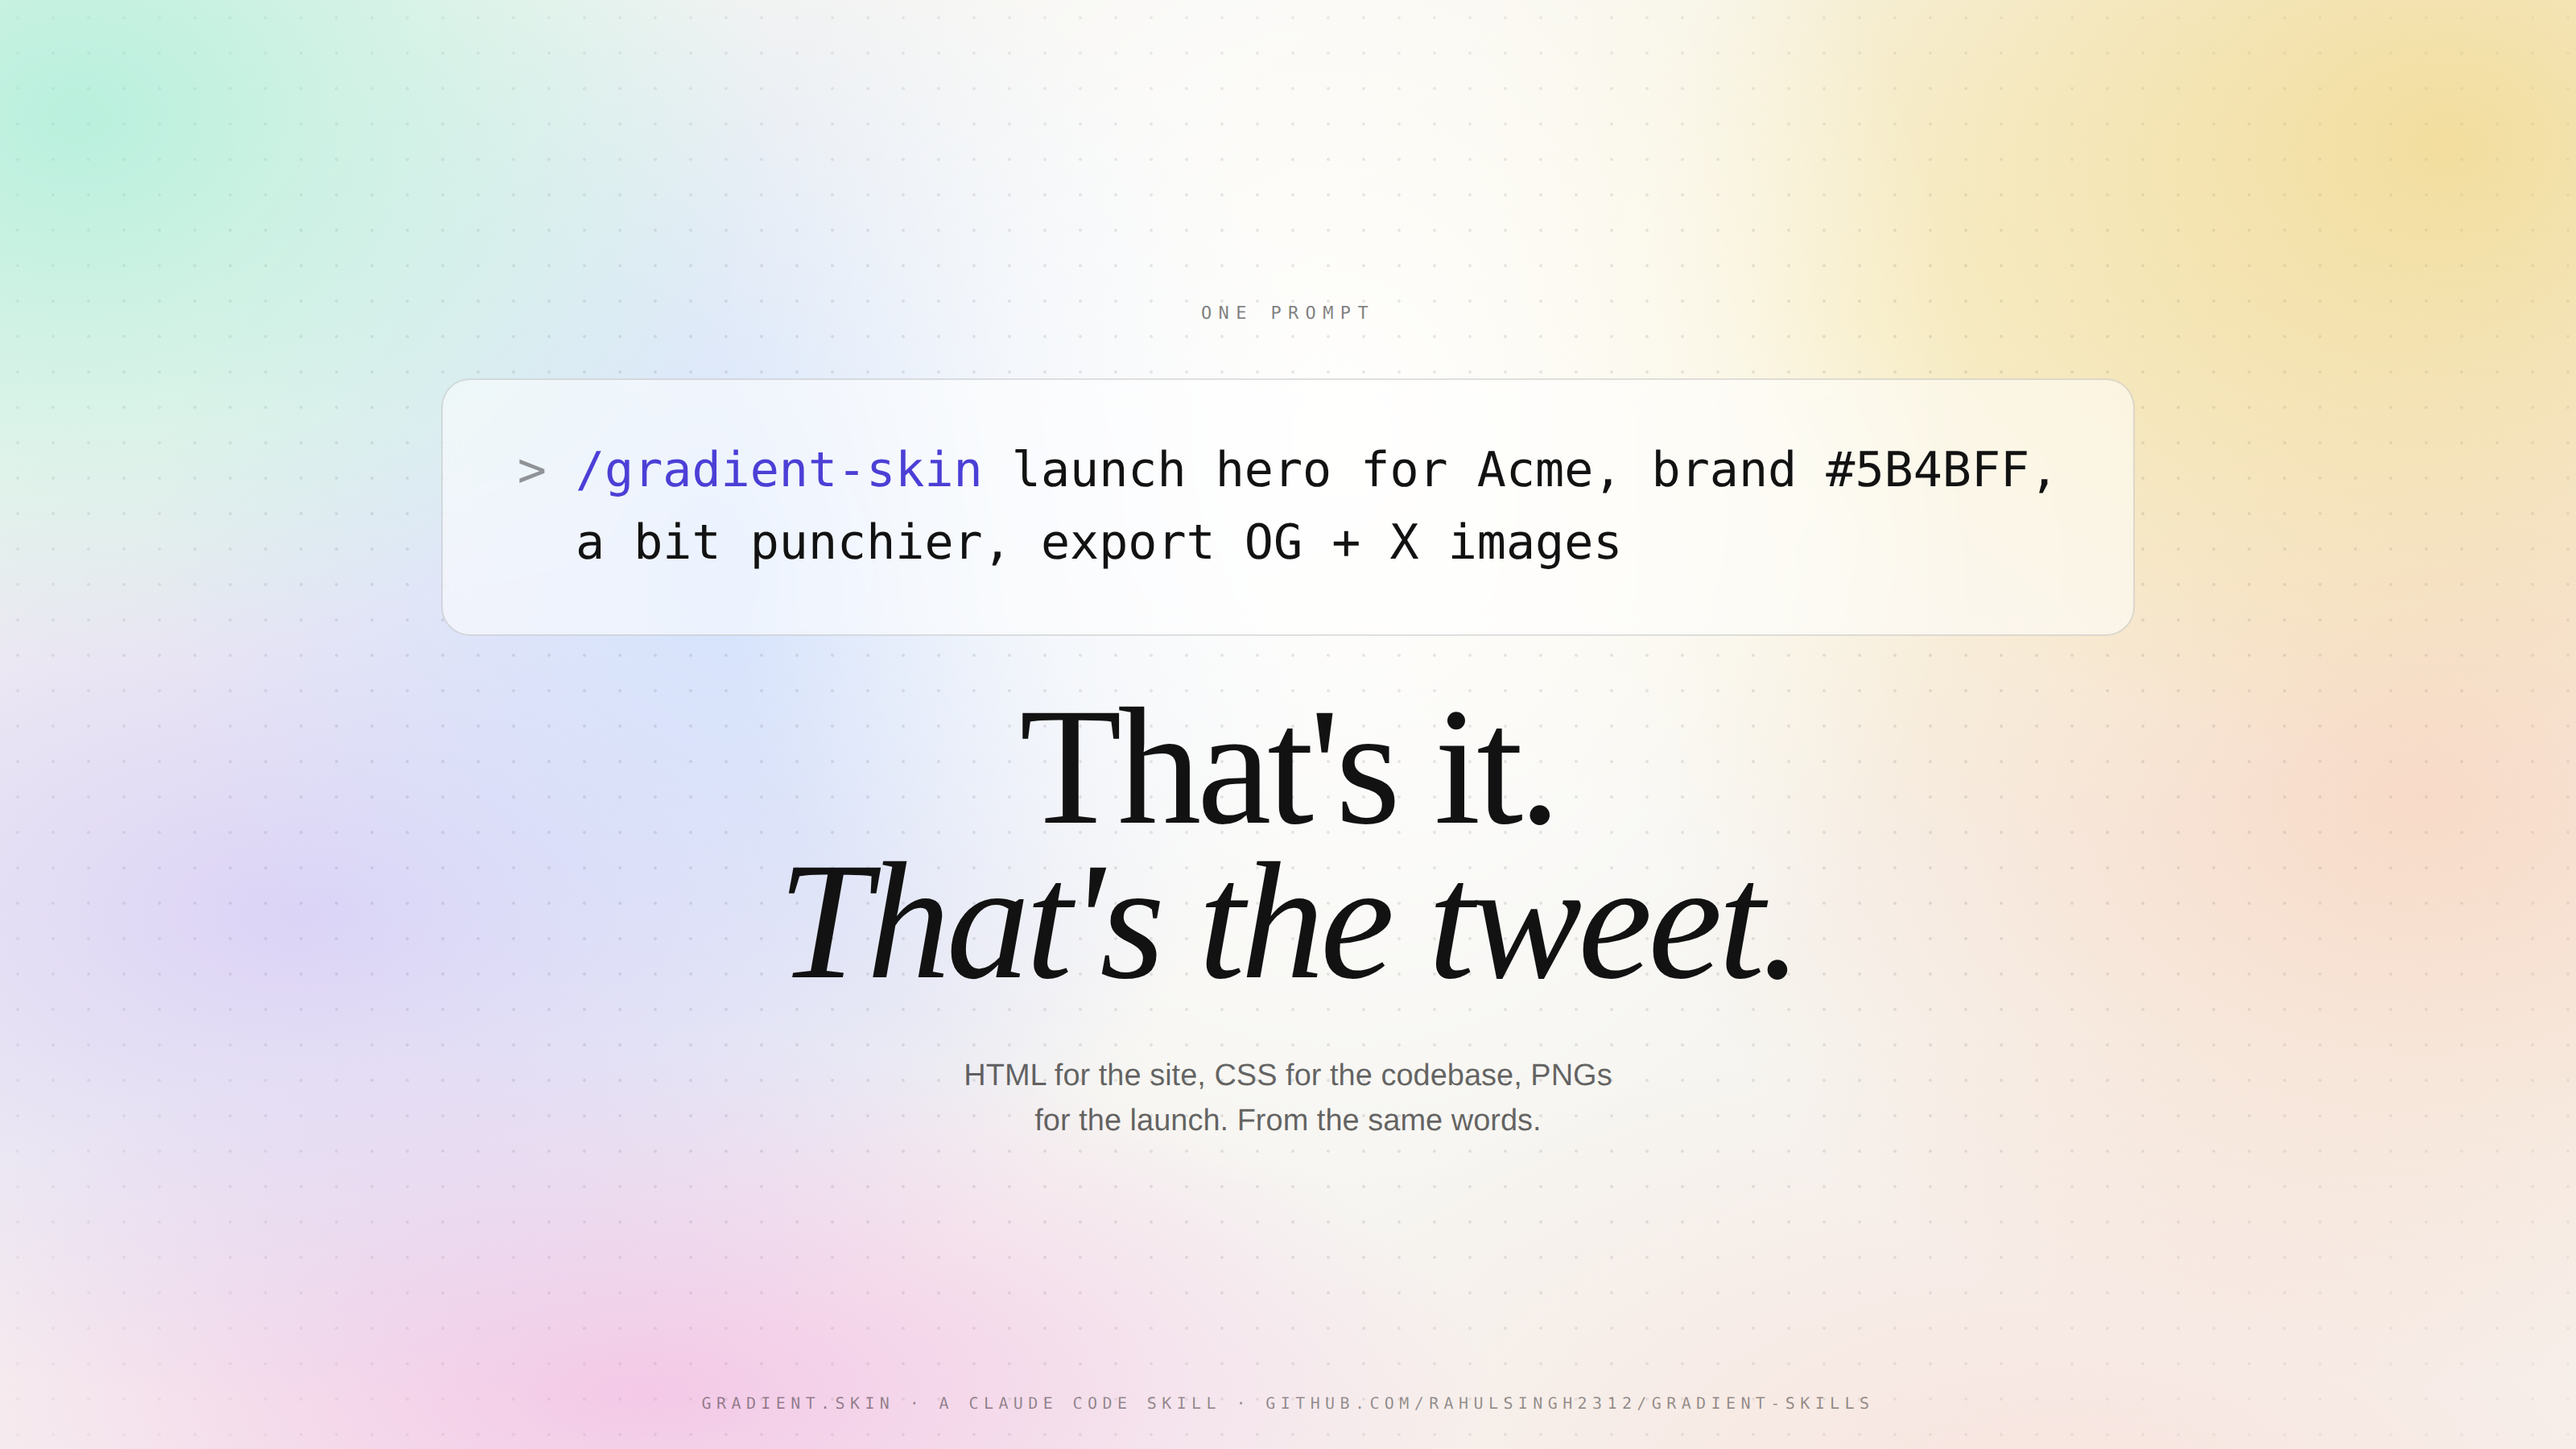
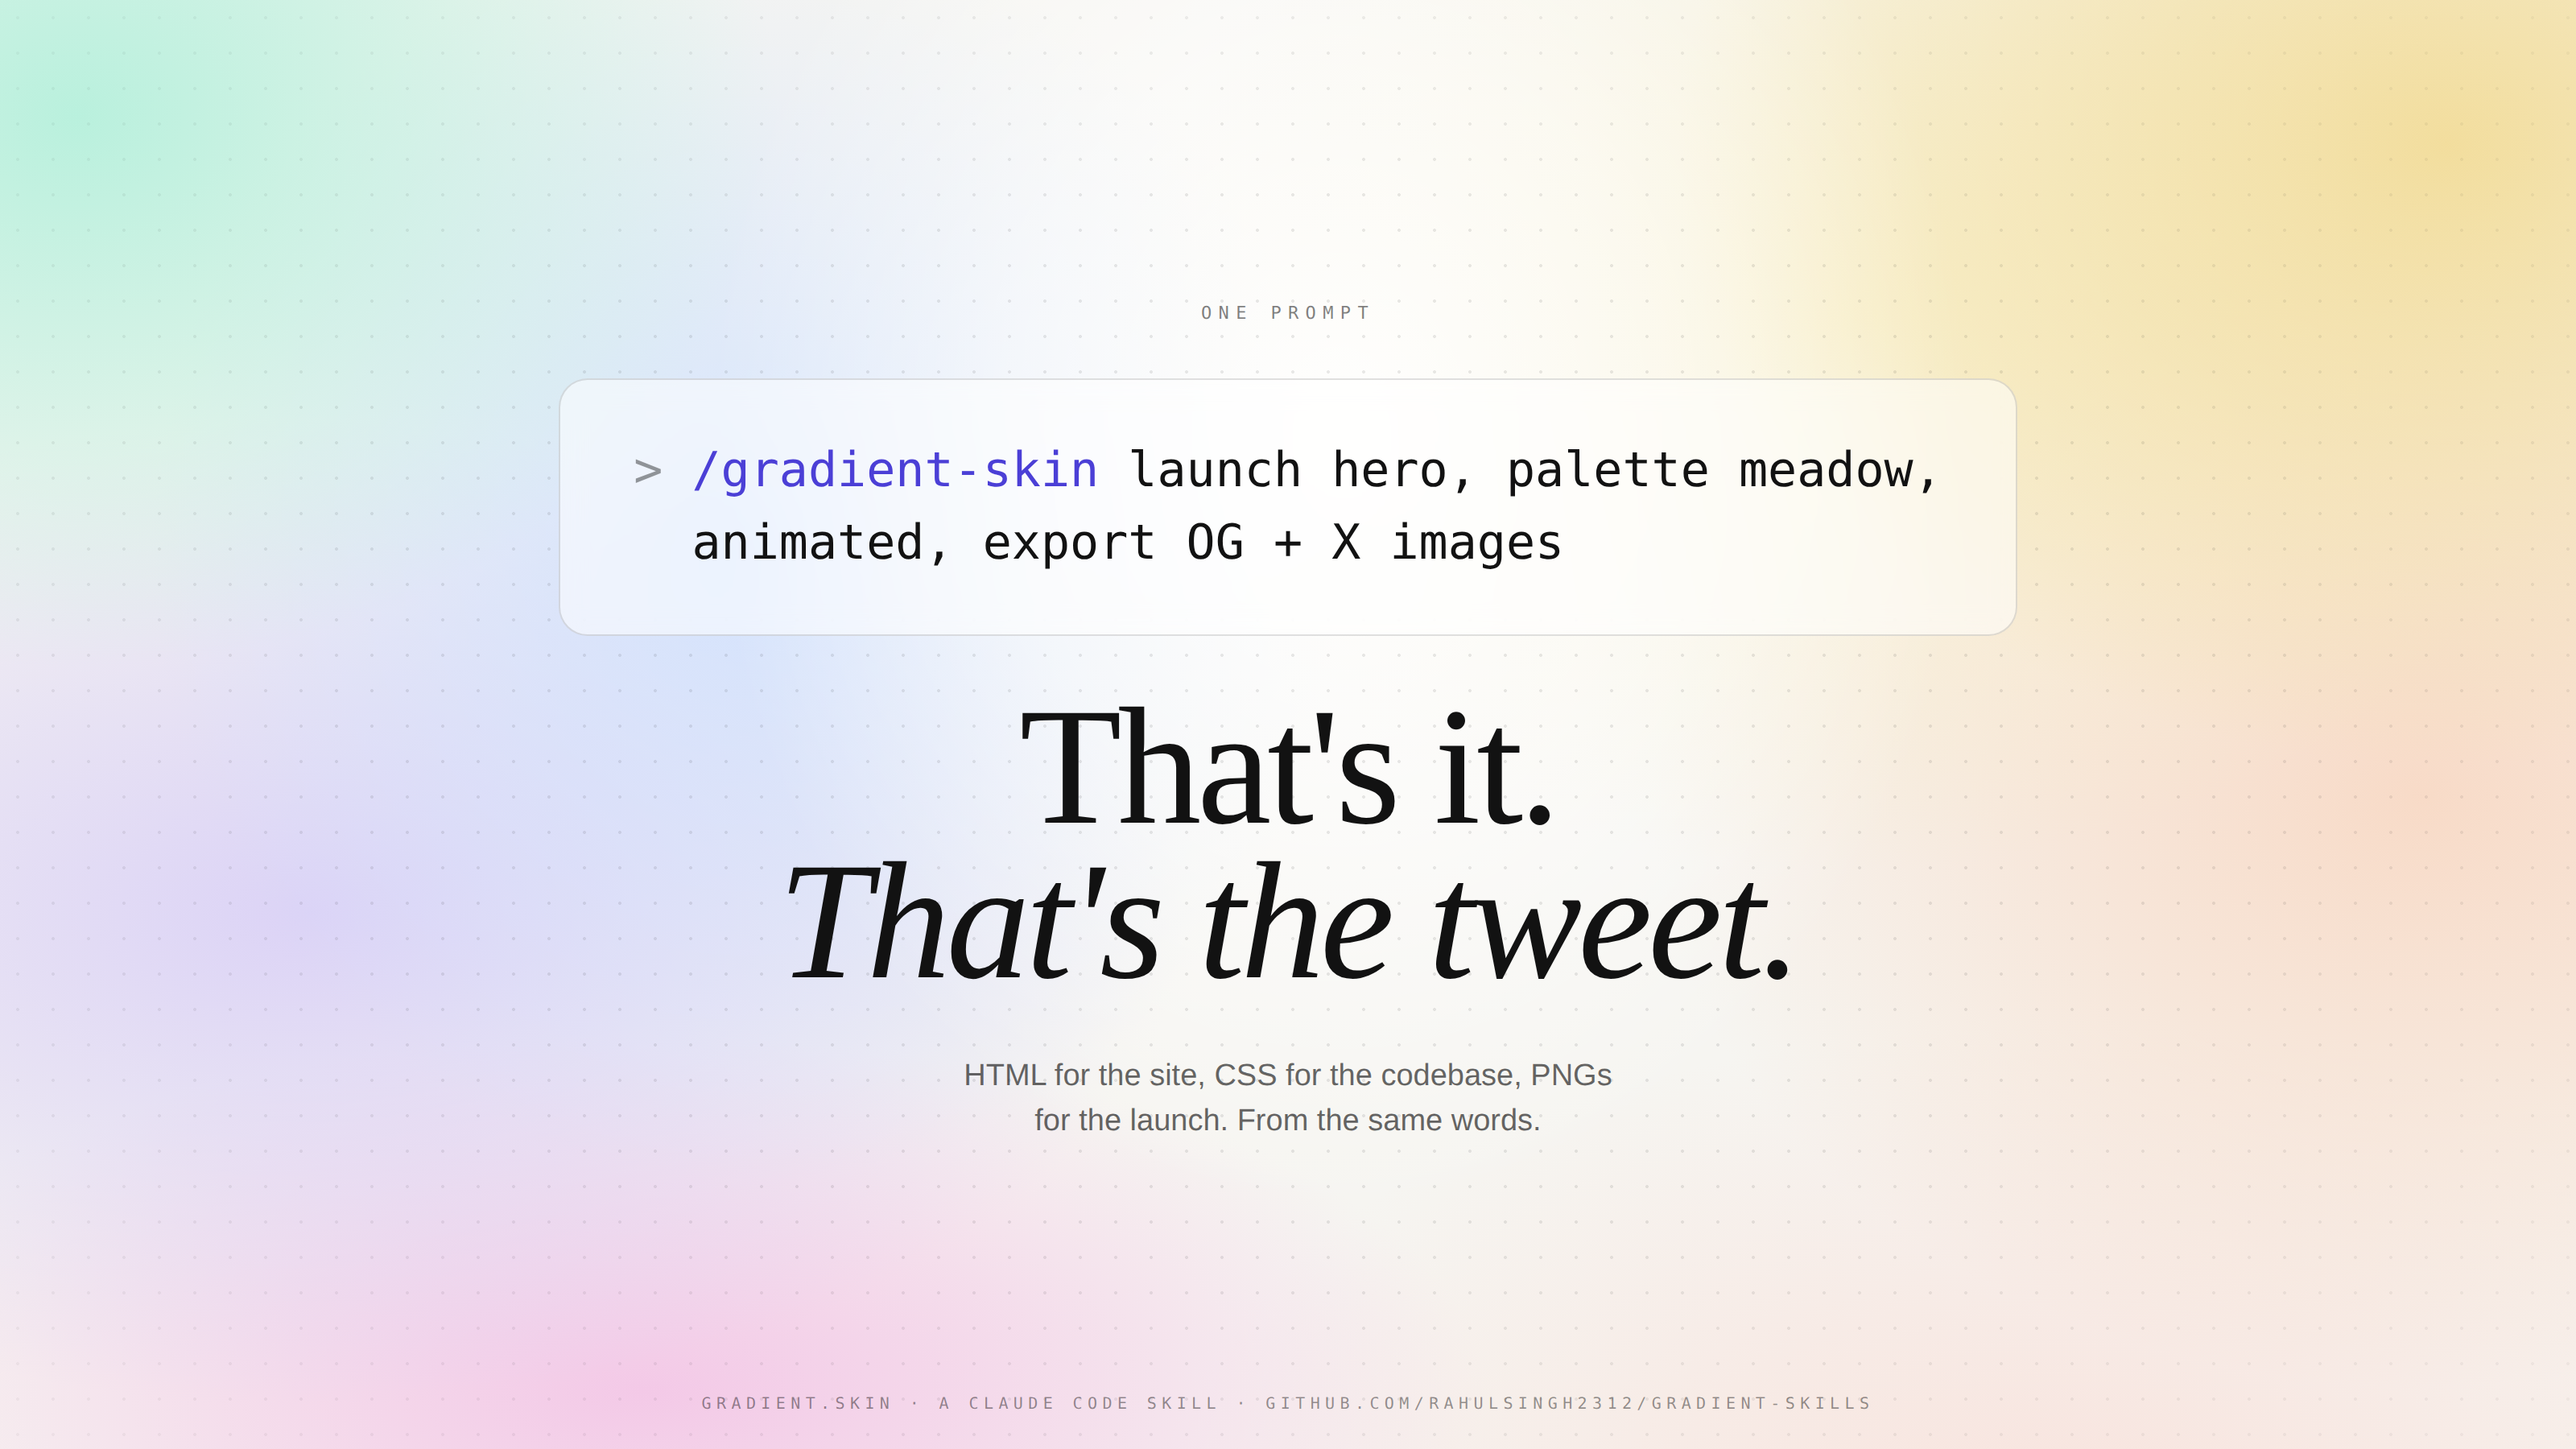
Example prompt uses palette meadow instead of a placeholder brand
Claude-Session: https://claude.ai/code/session_01Pj2DqLmp4zxdSxdQUmTHv8

Changed region(s): [[0.2188, 0.2489, 0.8438, 0.4356]]

diff --git a/site/index.html b/site/index.html
@@ -312,8 +312,8 @@ footer{text-align:center;padding:48px 6vw 64px;font-size:12px;opacity:.5} footer
   <p class="lede">A folder with a SKILL.md and a Python script. No packages, no build. Prefer files? <a href="/skill" style="color:inherit">Download the .skill</a> or grab it on <a href="https://github.com/rahulsingh2312/gradient-skills" style="color:inherit">GitHub</a>.</p>
   <div class="steps">
     <div class="step"><h3 class="serif">1. Install</h3><p>One line. Puts the skill in your Claude Code skills folder.</p><pre>curl -fsSL gradient.skin/install | sh</pre></div>
-    <div class="step"><h3 class="serif">2. Ask</h3><p>Describe the hero. Mention a palette, a brand colour, or nothing.</p><pre class="soft">/gradient-skin launch hero for Acme,
-brand #5B4BFF, animated,
+    <div class="step"><h3 class="serif">2. Ask</h3><p>Describe the hero. Mention a palette, a brand colour, or nothing.</p><pre class="soft">/gradient-skin launch hero,
+palette meadow, animated,
 export OG + X images</pre></div>
     <div class="step"><h3 class="serif">3. Ship</h3><p>Get a responsive page, a CSS block for your codebase, an SVG, or PNGs.</p><pre>hero.html
 skin.css

diff --git a/site/build.py b/site/build.py
@@ -126,8 +126,8 @@ footer{{text-align:center;padding:48px 6vw 64px;font-size:12px;opacity:.5}} foot
   <p class="lede">A folder with a SKILL.md and a Python script. No packages, no build. Prefer files? <a href="/skill" style="color:inherit">Download the .skill</a> or grab it on <a href="{REPO}" style="color:inherit">GitHub</a>.</p>
   <div class="steps">
     <div class="step"><h3 class="serif">1. Install</h3><p>One line. Puts the skill in your Claude Code skills folder.</p><pre>curl -fsSL gradient.skin/install | sh</pre></div>
-    <div class="step"><h3 class="serif">2. Ask</h3><p>Describe the hero. Mention a palette, a brand colour, or nothing.</p><pre class="soft">/gradient-skin launch hero for Acme,
-brand #5B4BFF, animated,
+    <div class="step"><h3 class="serif">2. Ask</h3><p>Describe the hero. Mention a palette, a brand colour, or nothing.</p><pre class="soft">/gradient-skin launch hero,
+palette meadow, animated,
 export OG + X images</pre></div>
     <div class="step"><h3 class="serif">3. Ship</h3><p>Get a responsive page, a CSS block for your codebase, an SVG, or PNGs.</p><pre>hero.html
 skin.css

diff --git a/launch/x-posts.md b/launch/x-posts.md
@@ -20,7 +20,7 @@ the image does the selling. Lowercase is fine on X; the serif in the image carri
 
 **B — the demo** · image: `images/one-prompt.png`
 
-> `/gradient-skin launch hero for acme, brand #5B4BFF, a bit punchier, export OG + X images`
+> `/gradient-skin launch hero, palette meadow, animated, export OG + X images`
 >
 > that's the whole workflow now. Claude Code skill, free, link below
 

diff --git a/launch/article.md b/launch/article.md
@@ -71,7 +71,7 @@ curl -fsSL gradient.skin/install | sh
 Then in Claude Code:
 
 ```
-/gradient-skin launch hero for Acme, brand #5B4BFF, a bit punchier, export OG + X images
+/gradient-skin launch hero, palette meadow, animated, export OG + X images
 ```
 
 You get a hero page, the CSS, and two PNGs, all from the same words. If you want to skip Claude entirely, the script runs on its own:

diff --git a/README.md b/README.md
@@ -25,7 +25,7 @@ Or `gradient.skin/skill` downloads the packaged `.skill` file (drop it into Clau
 Then in Claude Code:
 
 ```
-/gradient-skin launch hero for Acme, brand #5B4BFF, a bit punchier, export OG + X images
+/gradient-skin launch hero, palette meadow, animated, export OG + X images
 ```
 
 ### Use the script directly
